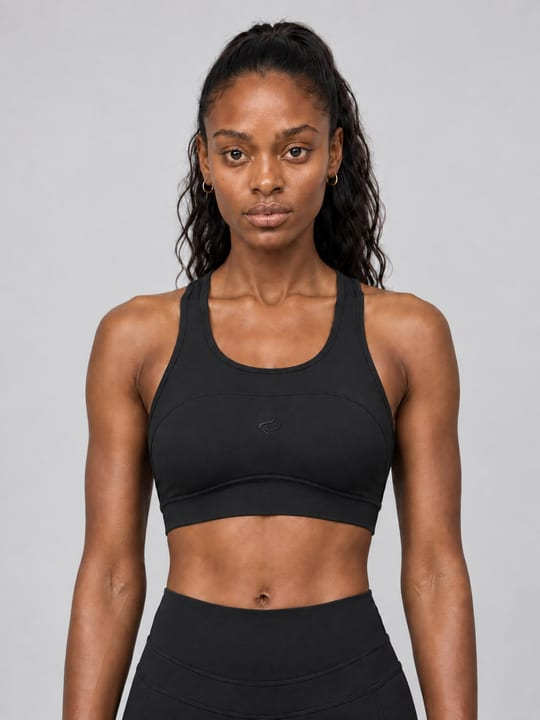
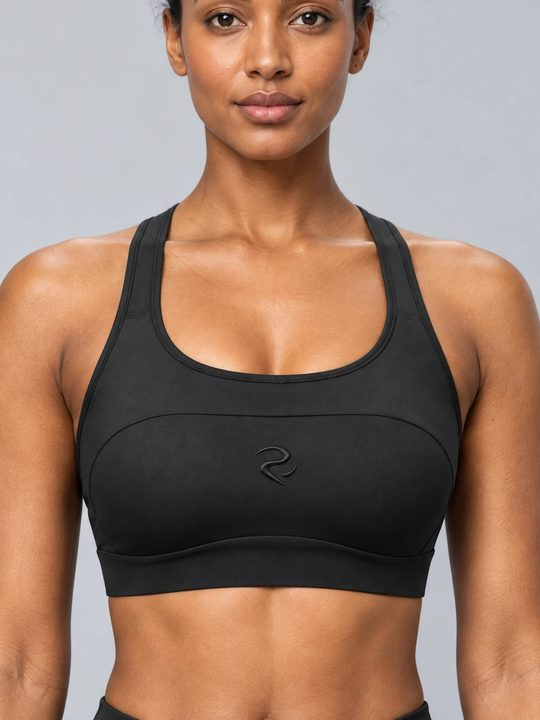
High Impact Bra: the close-up leads the gallery and is the cover (cards, homepage, share); old front kept as -front

diff --git a/product.html b/product.html
@@ -334,7 +334,7 @@
 const PRODUCTS={
   'running-leggings-w':{name:'Performance Leggings',gender:"Women's",price:'KES 5,500',priceVal:5500,image:'images/running-leggings-w-full-front.jpg',images:['images/running-leggings-w-full-front.jpg','images/running-leggings-w.jpg','images/running-leggings-w-side.jpg','images/running-leggings-w-full-back.jpg','images/running-leggings-w-plus-front.jpg','images/running-leggings-w-plus-front-angle.jpg','images/running-leggings-w-plus-back.jpg'],sizes:['S','M','L','XL','XXL'],desc:"Engineered for road and trail. A contoured waistband defines the line without compressing. A pattern-cut panel lifts the silhouette at the top of the glute, while graduated compression holds the line without flattening shape. Four-way stretch fabric. Flatlock seams.",details:['Contoured waistband — defines without compressing','Pattern-cut lift at the top of the glute','Graduated compression through thigh and core','Four-way stretch performance fabric','No front seam','Flatlock seam construction','Fabric: 75% Polyamide, 25% Elastane']},
   'flared-leggings-w':{name:'Flared Leggings',gender:"Women's",price:'KES 5,600',priceVal:5600,image:'images/flared-leggings-w.jpg',images:['images/flared-leggings-w.jpg','images/flared-leggings-w-back.jpg'],sizes:['S','M','L','XL','XXL'],tallSizes:['S (Tall)','M (Tall)','L (Tall)','XL (Tall)','XXL (Tall)'],desc:"Studio-ready with a relaxed straight-leg silhouette — loose from the waistband down through the leg. A high-rise contoured waistband defines the waistline and stays put through full range of motion. A pattern-cut panel lifts the silhouette at the top of the glute, while graduated compression holds the line without flattening shape. Buttery-soft four-way stretch fabric. Suited to yoga, pilates, barre and everyday wear. Also available in Tall lengths.",details:['High-rise contoured waistband — defines without compressing','Pattern-cut lift at the top of the glute','Graduated compression through thigh and core','Buttery-soft four-way stretch fabric','No front seam','Relaxed straight-leg cut — loose from the waistband through the leg','Regular (34" inseam) — up to 5\'8" / 173cm · Tall (37" inseam) — 5\'9" / 175cm and above','Fabric: 75% Polyamide, 25% Elastane']},
-  'high-impact-bra':{name:'High Impact Sports Bra',gender:"Women's",price:'KES 4,950',priceVal:4950,image:'images/high-impact-bra.jpg',images:['images/high-impact-bra-full-front.jpg','images/high-impact-bra-full-front-2.jpg','images/high-impact-bra-full-back.jpg','images/high-impact-bra-full-side.jpg','images/high-impact-bra-detail.jpg','images/high-impact-bra.jpg','images/high-impact-bra-back.jpg','images/high-impact-bra-side.jpg','images/high-impact-bra-plus-front.jpg','images/high-impact-bra-plus-front-angle.jpg','images/high-impact-bra-plus-back.jpg'],sizes:['S','M','L','XL','XXL'],desc:"Maximum support for running, HIIT, and high-intensity training. Wide underband and reinforced straps keep everything locked in place. Moisture-wicking inner lining and built-in moulded padding.",details:['Maximum support rating','Wide reinforced underband','Adjustable underband strap','Crossover back straps','Built-in moulded padding','Moisture-wicking inner lining','Fabric: Body Fabric: 75% Polyamide, 25% Elastane / Inner Fabric: 90% Polyester, 10% Elastane Jacquard Tricot / Mesh: 88% Polyamide, 12% Elastane Mesh']},
+  'high-impact-bra':{name:'High Impact Sports Bra',gender:"Women's",price:'KES 4,950',priceVal:4950,image:'images/high-impact-bra.jpg',images:['images/high-impact-bra.jpg','images/high-impact-bra-full-front.jpg','images/high-impact-bra-full-front-2.jpg','images/high-impact-bra-full-back.jpg','images/high-impact-bra-full-side.jpg','images/high-impact-bra-front.jpg','images/high-impact-bra-back.jpg','images/high-impact-bra-side.jpg','images/high-impact-bra-plus-front.jpg','images/high-impact-bra-plus-front-angle.jpg','images/high-impact-bra-plus-back.jpg'],sizes:['S','M','L','XL','XXL'],desc:"Maximum support for running, HIIT, and high-intensity training. Wide underband and reinforced straps keep everything locked in place. Moisture-wicking inner lining and built-in moulded padding.",details:['Maximum support rating','Wide reinforced underband','Adjustable underband strap','Crossover back straps','Built-in moulded padding','Moisture-wicking inner lining','Fabric: Body Fabric: 75% Polyamide, 25% Elastane / Inner Fabric: 90% Polyester, 10% Elastane Jacquard Tricot / Mesh: 88% Polyamide, 12% Elastane Mesh']},
   'low-impact-bra':{name:'Low Impact Sports Bra',gender:"Women's",price:'KES 4,450',priceVal:4450,image:'images/low-impact-bra.jpg',images:['images/low-impact-bra.jpg','images/low-impact-bra-front.jpg','images/low-impact-bra-side.jpg','images/low-impact-bra-back.jpg'],sizes:['S','M','L','XL','XXL'],desc:"Lightweight and breathable for yoga, pilates, stretching, and low-intensity sessions. Scoop neck with a clean racerback silhouette. Removable padding, soft-touch fabric.",details:['Light support rating','Racerback silhouette','Scoop neckline','Removable padding','Soft-touch four-way stretch fabric','Fabric: Body Fabric: 82% Polyamide, 18% Elastane / Mesh: 88% Polyamide, 12% Elastane Mesh']},
   'jacket-w':{name:"Women's Jacket",gender:"Women's",price:'KES 7,500',priceVal:7500,image:'images/jacket-w.jpg',images:['images/jacket-w.jpg','images/jacket-w-front-angle.jpg','images/jacket-w-back-angle.jpg','images/jacket-w-back.jpg'],sizes:['S','M','L','XL','XXL'],desc:"A versatile training jacket built for warm-ups, cool-downs, and everything in between. Two side pockets and a straight fit.",details:['Full-length zip front','Two side zip pockets','Straight fit','Fabric: 100% Polyester']},
   'tshirt-w':{name:"Women's T-Shirt",gender:"Women's",price:'KES 4,500',priceVal:4500,image:'images/tshirt-w.jpg',images:['images/tshirt-w.jpg','images/tshirt-w-front-angle.jpg','images/tshirt-w-back.jpg','images/tshirt-w-detail.jpg','images/tshirt-w-movement.jpg'],sizes:['S','M','L','XL','XXL'],desc:"A clean training tee built for movement. Lightweight moisture-wicking fabric, a relaxed fit that stays in place, and a full-length hem. Wear it to the gym, on a run, or straight after.",details:['Moisture-wicking fabric','Relaxed fit, full length','Crew neck','Flatlock shoulder seams','Fabric: 89% Polyester, 11% Elastane']},
